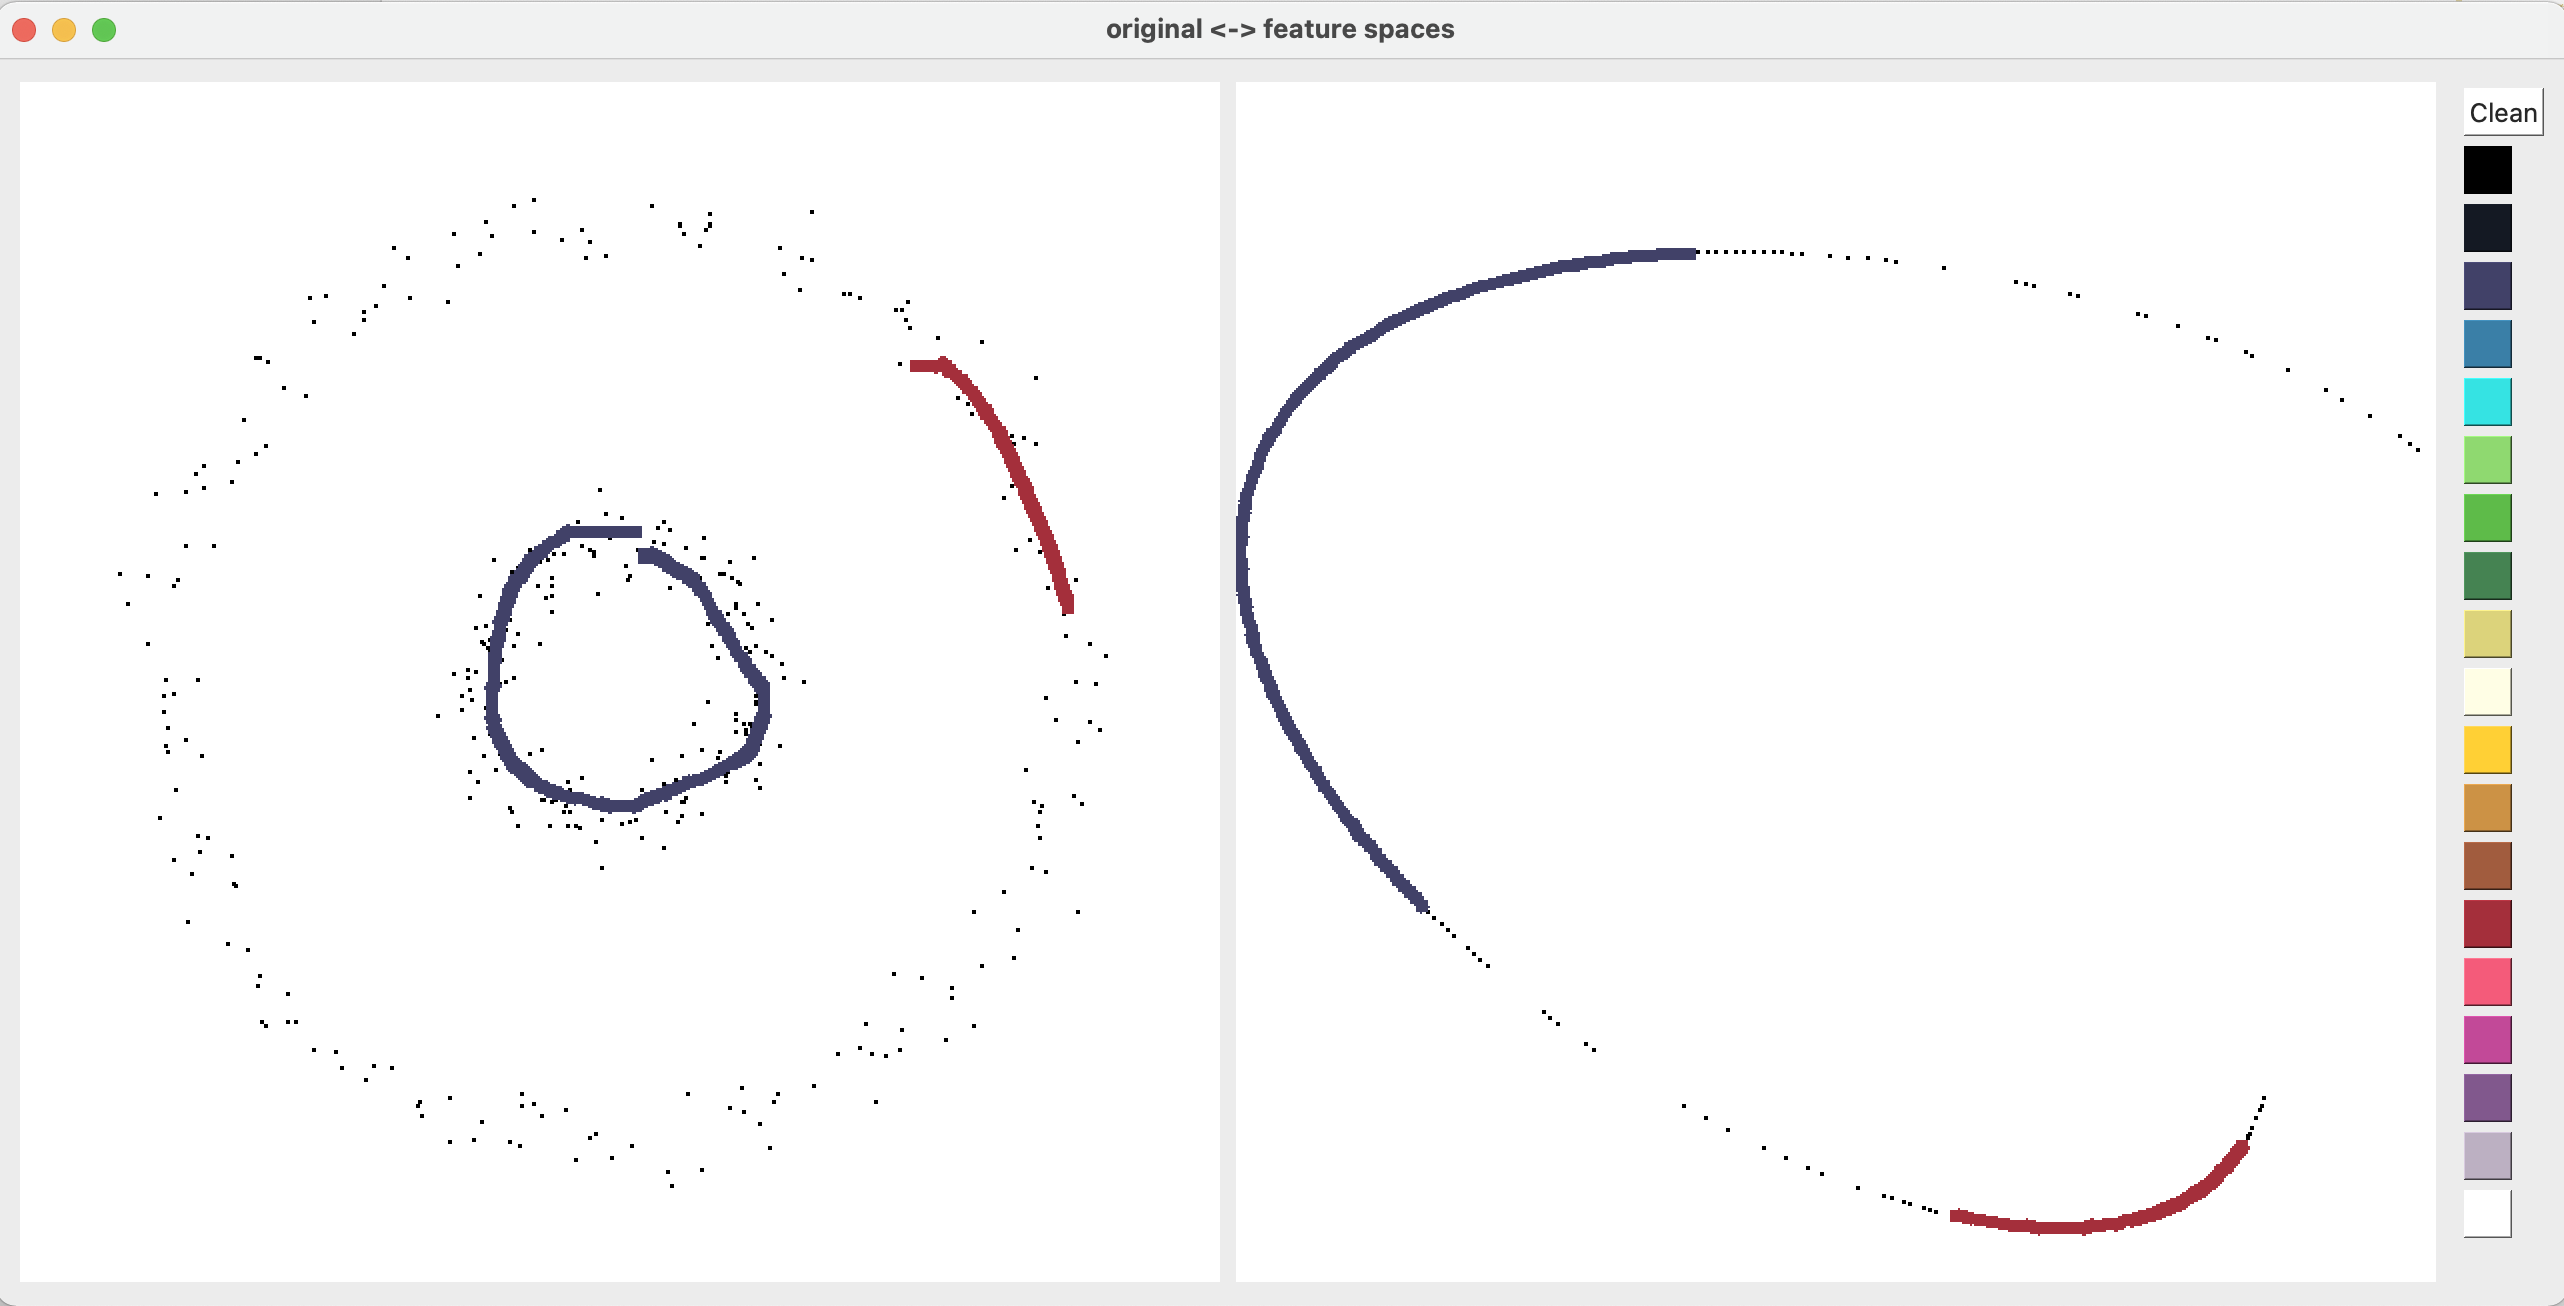
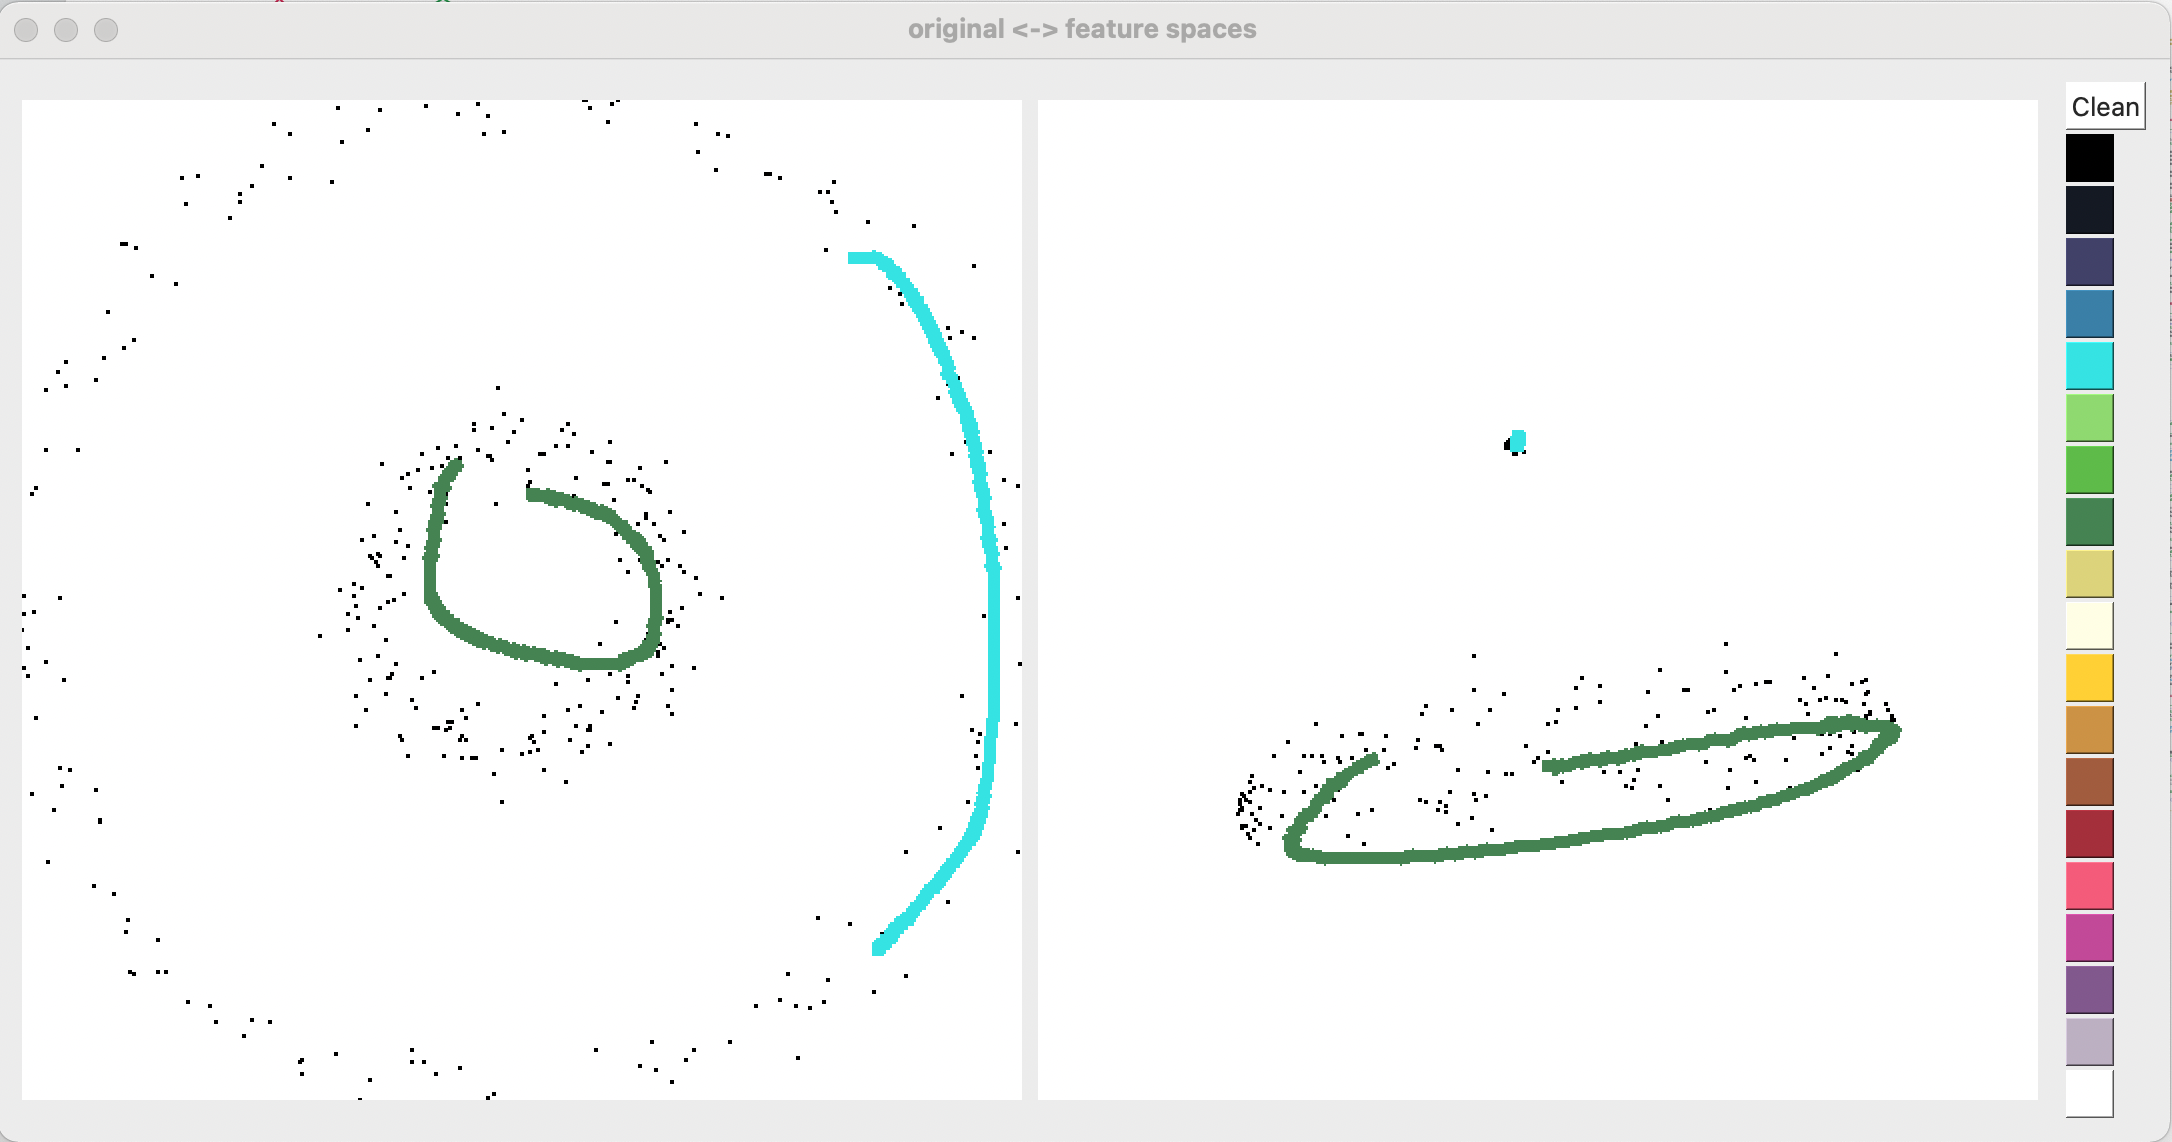
fix scale

diff --git a/main.py b/main.py
@@ -6,20 +6,18 @@ Inspiration from https://github.com/stephencwelch/Imaginary-Numbers-Are-Real
 import sys
 
 import numpy as np
-from sklearn.decomposition import PCA, KernelPCA
+from sklearn.decomposition import KernelPCA
 from sklearn.datasets import make_circles
 
-from PyQt5 import QtCore, QtGui, QtWidgets, uic
-from PyQt5.QtCore import Qt
+from PyQt5 import QtCore, QtGui, QtWidgets
 
+COLORS = [
+            '#000000', '#141923', '#414168', '#3a7fa7', '#35e3e3', '#8fd970',
+            '#5ebb49', '#458352', '#dcd37b', '#fffee5', '#ffd035', '#cc9245',
+            '#a15c3e', '#a42f3b', '#f45b7a', '#c24998', '#81588d', '#bcb0c2',
+            '#ffffff',
+         ]
 
-X, y = make_circles(n_samples=400, factor=.3, noise=0.05, random_state=0)
-X -= X.mean(axis=0)
-X /= X.std(axis=0)*5
-
-kpca = KernelPCA(kernel="rbf", fit_inverse_transform=True, gamma=10,
-                 n_components=2)
-kpca = kpca.fit(X)
 
 class MainWindow(QtWidgets.QMainWindow):
 
@@ -71,7 +69,7 @@ class Canvas(QtWidgets.QLabel):
 
     def __init__(self):
         super().__init__()
-        self.pixmap_size = (600, 600)
+        self.pixmap_size = (500, 500)
         pixmap = QtGui.QPixmap(*self.pixmap_size)
         self.setPixmap(pixmap)
         self.last_x, self.last_y = None, None
@@ -116,8 +114,7 @@ class Canvas(QtWidgets.QLabel):
         painter.drawLine(self.last_x, self.last_y, e.x(), e.y())
         painter.end()
         self.update()
-
-        self.upadate_transformed_space(e)
+        self.update_transformed_space(e)
 
         # Update the origin for next time.
         self.last_x = e.x()
@@ -127,7 +124,7 @@ class Canvas(QtWidgets.QLabel):
         self.last_x = None
         self.last_y = None
 
-    def upadate_transformed_space(self, e):
+    def update_transformed_space(self, e):
         painter = QtGui.QPainter(self.transformed_space.pixmap())
         p = painter.pen()
         p.setWidth(6)
@@ -141,20 +138,19 @@ class Canvas(QtWidgets.QLabel):
             x, y = self.coord_transform(e.x(), e.y(), inverse=True)
             last_x, last_y = self.coord_transform(self.last_x, self.last_y,
                                                   inverse=True)
-
         painter.drawLine(last_x, last_y, x, y)
         painter.end()
         self.transformed_space.update()
 
     def pixel_to_data(self, x, y, pixmap_size):
-        size_x = pixmap_size[0]
-        size_y = pixmap_size[1]
-        return x/size_x - 0.5, x/size_y - 0.5
+        scale_x = pixmap_size[0] / 2
+        scale_y = pixmap_size[1] / 2
+        return (x - scale_x)/scale_x, (y - scale_y)/scale_y
 
     def data_to_pixel(self, x, y, pixmap_size):
-        size_x = pixmap_size[0]
-        size_y = pixmap_size[1]
-        x, y = (x+0.5)*size_x, (y+0.5)*size_y
+        scale_x = pixmap_size[0] / 2
+        scale_y = pixmap_size[1] / 2
+        x, y = x*scale_x + scale_x, y*scale_y + scale_y
         return np.int32(x), np.int32(y)
 
     def coord_transform(self, x, y, inverse=False):
@@ -165,16 +161,6 @@ class Canvas(QtWidgets.QLabel):
             x, y = kpca.transform([[x, y]])[0]
         x, y = self.data_to_pixel(x, y, self.transformed_space.pixmap_size)
         return x, y
-
-
-
-COLORS = [
-            # 17 undertones https://lospec.com/palette-list/17undertones
-            '#000000', '#141923', '#414168', '#3a7fa7', '#35e3e3', '#8fd970',
-            '#5ebb49', '#458352', '#dcd37b', '#fffee5', '#ffd035', '#cc9245',
-            '#a15c3e', '#a42f3b', '#f45b7a', '#c24998', '#81588d', '#bcb0c2',
-            '#ffffff',
-         ]
 
 
 class QPaletteButton(QtWidgets.QPushButton):
@@ -195,6 +181,15 @@ def main():
     window = MainWindow()
     window.show()
     app.exec_()
+
+
+X, y = make_circles(n_samples=400, factor=.3, noise=0.05, random_state=0)
+# X -= X.mean(axis=0)
+# X /= X.std(axis=0)*5
+
+kpca = KernelPCA(kernel="rbf", fit_inverse_transform=True, gamma=10,
+                 n_components=2)
+kpca = kpca.fit(X)
 
 
 if __name__ == '__main__':
